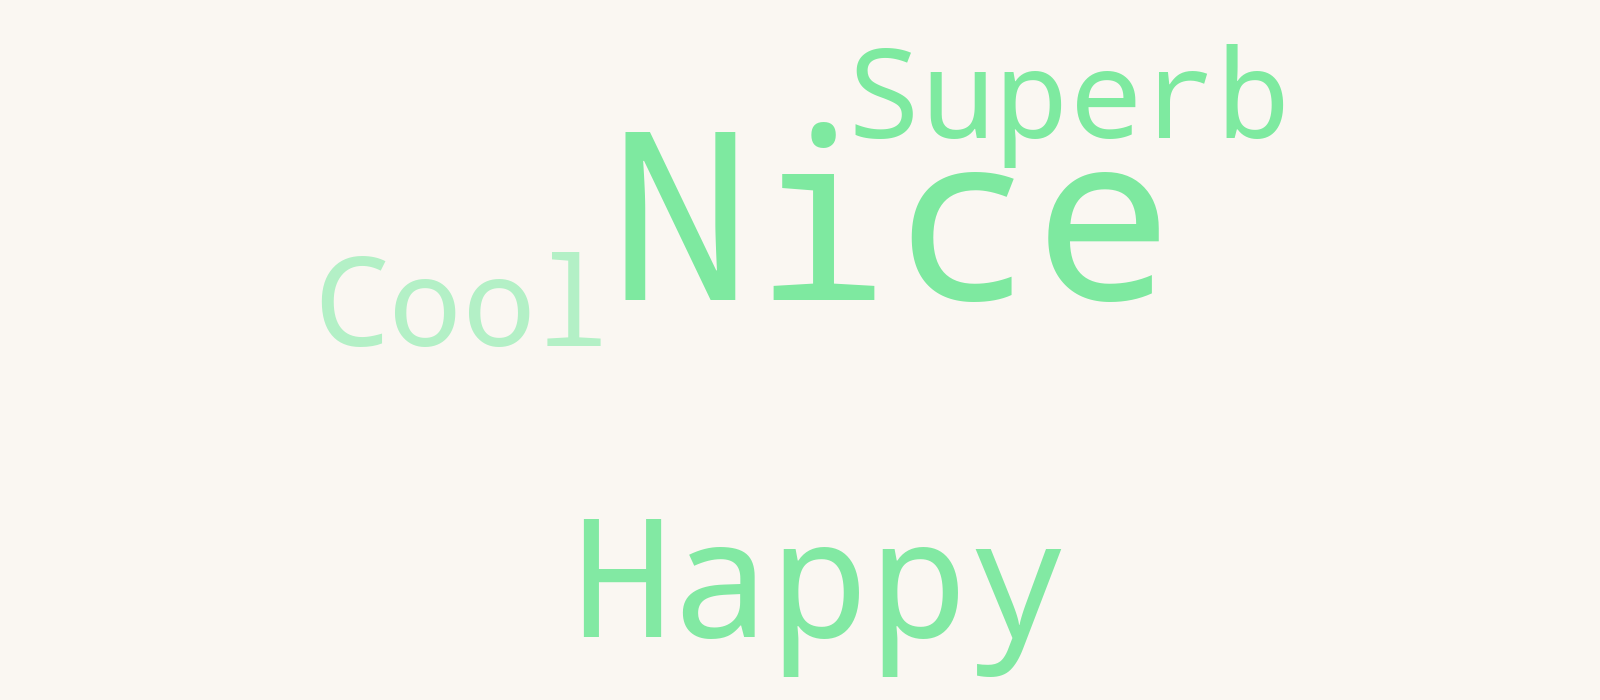
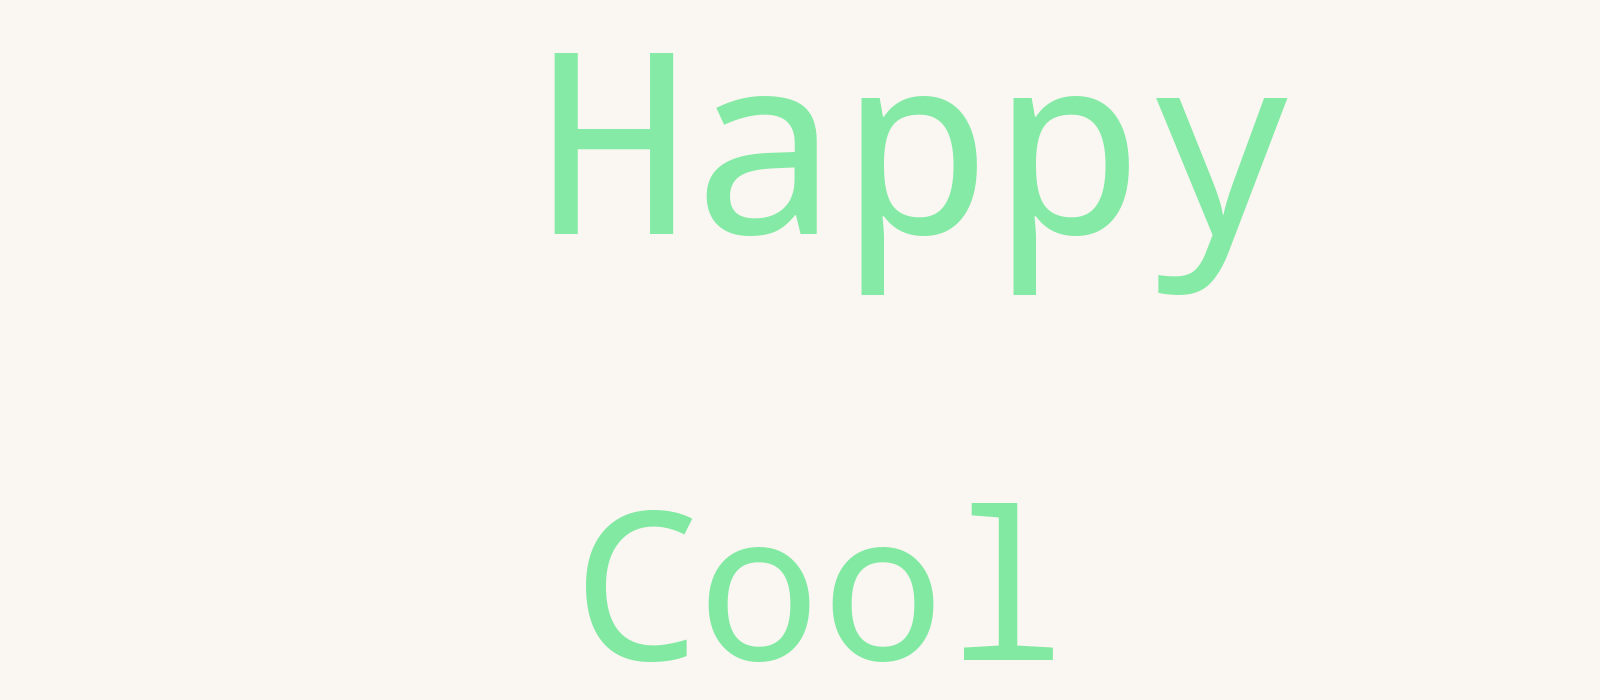
New database setup

Changed region(s): [[0.1875, 0.06, 0.8125, 0.51], [0.3438, 0.72, 0.6875, 0.99]]

diff --git a/templates/admin.html b/templates/admin.html
@@ -38,18 +38,20 @@
                     <tr>
                         <th scope="col">Word</th>
                         <th scope="col">Count</th>
+                        <th scope="col">Submitted by</th>
                         <th scope="col"><span class="sr-only">Actions</span></th>
                     </tr>
                 </thead>
                 <tbody>
-                    {% for word, count in adjectives | dictsort(by='value', reverse=true) %}
+                    {% for adj in adjectives %}
                         <tr>
-                            <td>{{ word }}</td>
-                            <td class="count">{{ count }}</td>
+                            <td>{{ adj.adjective }}</td>
+                            <td class="count">{{ adj.counter }}</td>
+                            <td>{{ adj.username or "Anonymous" }}</td>
                             <td>
                                 <form method="post" action="{{ url_for('admin_delete') }}">
-                                    <input type="hidden" name="word" value="{{ word }}">
-                                    <button type="submit" class="delete-btn" aria-label="Delete {{ word }}">Delete</button>
+                                    <input type="hidden" name="word" value="{{ adj.adjective }}">
+                                    <button type="submit" class="delete-btn" aria-label="Delete {{ adj.adjective }}">Delete</button>
                                 </form>
                             </td>
                         </tr>

diff --git a/mariadb_python.py b/mariadb_python.py
@@ -24,17 +24,20 @@ def ensure_table():
     conn = get_connection()
     cur = conn.cursor()
     cur.execute("""
-        CREATE TABLE IF NOT EXISTS adjectives (
-            adjective VARCHAR(100) PRIMARY KEY,
-            counter   INT NOT NULL DEFAULT 1
-        );
-    """)
-    cur.execute("""
         CREATE TABLE IF NOT EXISTS users (
             id            INT AUTO_INCREMENT PRIMARY KEY,
             username      VARCHAR(50) UNIQUE NOT NULL,
             password_hash VARCHAR(255) NOT NULL,
             role          VARCHAR(20) NOT NULL DEFAULT 'user'
+        );
+    """)
+    cur.execute("""
+        CREATE TABLE IF NOT EXISTS adjectives (
+            id        INT AUTO_INCREMENT PRIMARY KEY,
+            adjective VARCHAR(50) UNIQUE NOT NULL,
+            counter   INT NOT NULL DEFAULT 1,
+            user_id   INT,
+            FOREIGN KEY (user_id) REFERENCES users(id) ON DELETE SET NULL
         );
     """)
     conn.commit()
@@ -54,15 +57,6 @@ def create_user(username: str, password_hash: str, role: str = "user") -> None:
     conn.close()
 
 
-def delete_adjective(word: str) -> None:
-    conn = get_connection()
-    cur = conn.cursor()
-    cur.execute("DELETE FROM adjectives WHERE adjective = ?", (word,))
-    conn.commit()
-    cur.close()
-    conn.close()
-
-
 def get_user(username: str):
     conn = get_connection()
     cur = conn.cursor()
@@ -77,6 +71,7 @@ def get_user(username: str):
         return None
     return {"id": row[0], "username": row[1], "password_hash": row[2], "role": row[3]}
 
+
 def get_adjectives():
     conn = get_connection()
     cur = conn.cursor()
@@ -84,9 +79,28 @@ def get_adjectives():
     results = cur.fetchall()
     cur.close()
     conn.close()
-    return {adj: count for adj, count in results}   # First value from results goes into adj, second value goes into count
+    return {adj: count for adj, count in results}
 
-def write(word):
+
+def get_adjectives_admin():
+    conn = get_connection()
+    cur = conn.cursor()
+    cur.execute("""
+        SELECT a.adjective, a.counter, u.username
+        FROM adjectives a
+        LEFT JOIN users u ON a.user_id = u.id
+        ORDER BY a.counter DESC;
+    """)
+    results = cur.fetchall()
+    cur.close()
+    conn.close()
+    return [
+        {"adjective": adj, "counter": count, "username": username}
+        for adj, count, username in results
+    ]
+
+
+def write(word: str, user_id: int = None) -> None:
     conn = get_connection()
     cur = conn.cursor()
     cur.execute("SELECT counter FROM adjectives WHERE adjective = ?", (word,))
@@ -94,8 +108,19 @@ def write(word):
     if row:
         cur.execute("UPDATE adjectives SET counter = counter + 1 WHERE adjective = ?", (word,))
     else:
-        cur.execute("INSERT INTO adjectives (adjective, counter) VALUES (?, 1)", (word,))
+        cur.execute(
+            "INSERT INTO adjectives (adjective, counter, user_id) VALUES (?, 1, ?)",
+            (word, user_id)
+        )
     conn.commit()
     cur.close()
     conn.close()
-    
+
+
+def delete_adjective(word: str) -> None:
+    conn = get_connection()
+    cur = conn.cursor()
+    cur.execute("DELETE FROM adjectives WHERE adjective = ?", (word,))
+    conn.commit()
+    cur.close()
+    conn.close()

diff --git a/app.py b/app.py
@@ -1,5 +1,5 @@
 from flask import Flask, render_template, request, redirect, url_for, flash, session
-from mariadb_python import get_adjectives, write, create_user, get_user, delete_adjective
+from mariadb_python import get_adjectives, get_adjectives_admin, write, create_user, get_user, delete_adjective
 from wordcloud_python import make_cloud
 from hashing import hash_password, check_password
 import markdown
@@ -58,7 +58,7 @@ def add():
         return redirect(url_for("index"))
     
     if _is_adjective(word) == True:
-        write(word)
+        write(word, session.get("user_id"))
         flash(f'"{word}" added!', "success")
         return redirect(url_for("index"))
 
@@ -115,7 +115,7 @@ def admin():
     if session.get("role") != "admin":
         flash("Admin access required.", "error")
         return redirect(url_for("index"))
-    adjectives = get_adjectives()
+    adjectives = get_adjectives_admin()
     return render_template("admin.html", adjectives=adjectives)
 
 